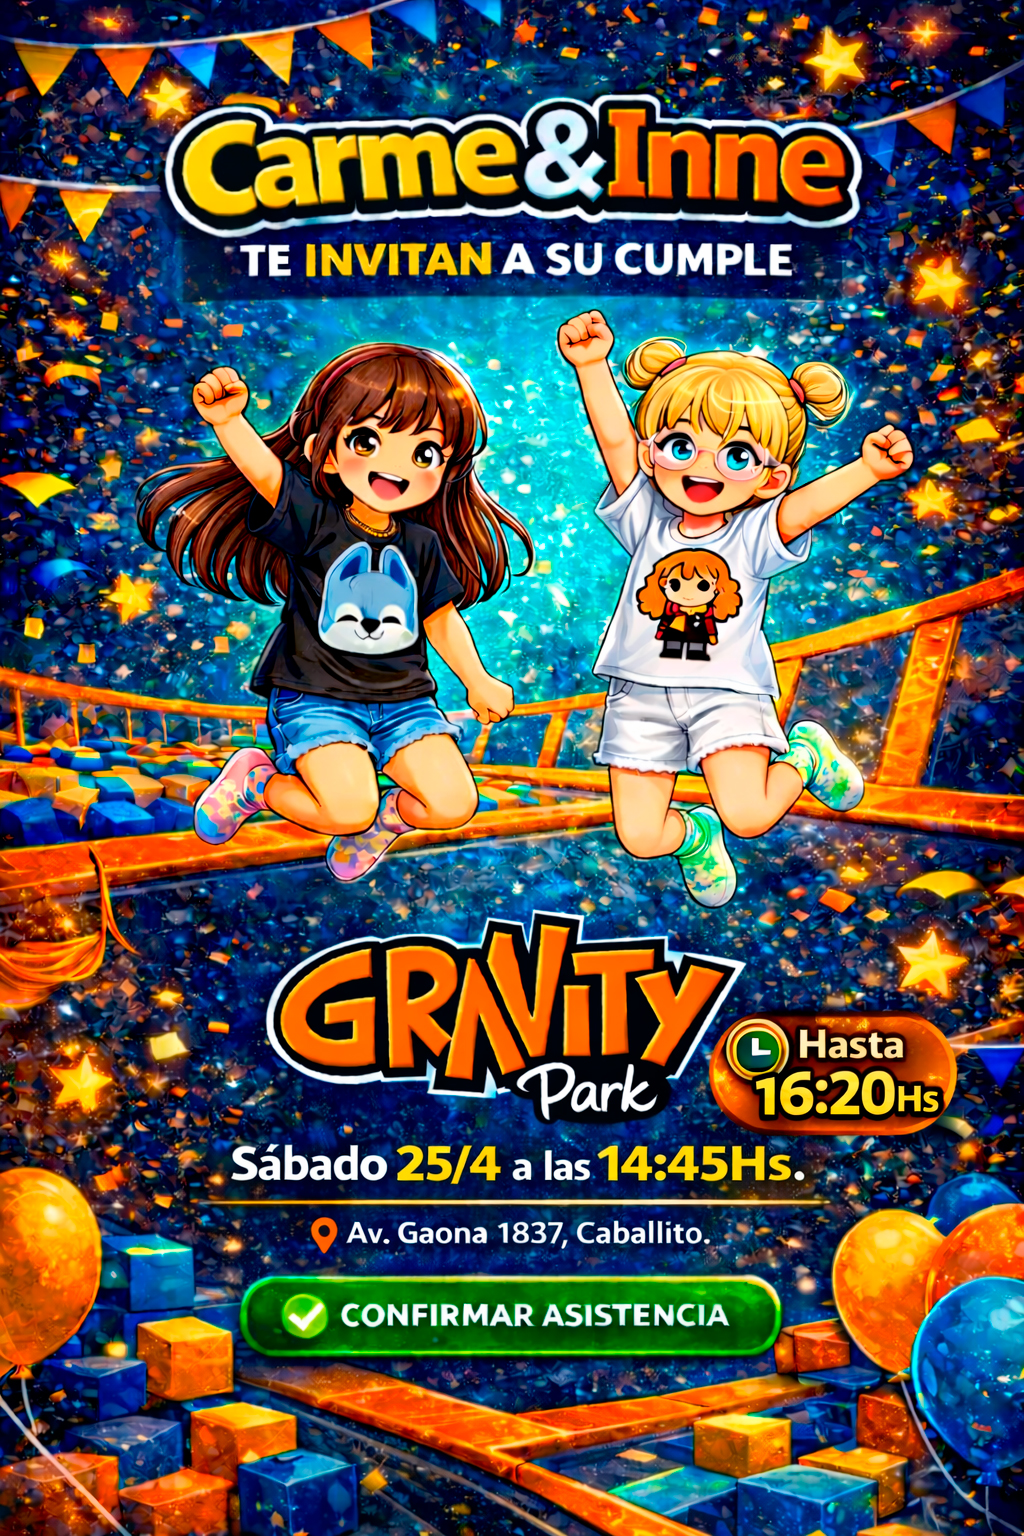
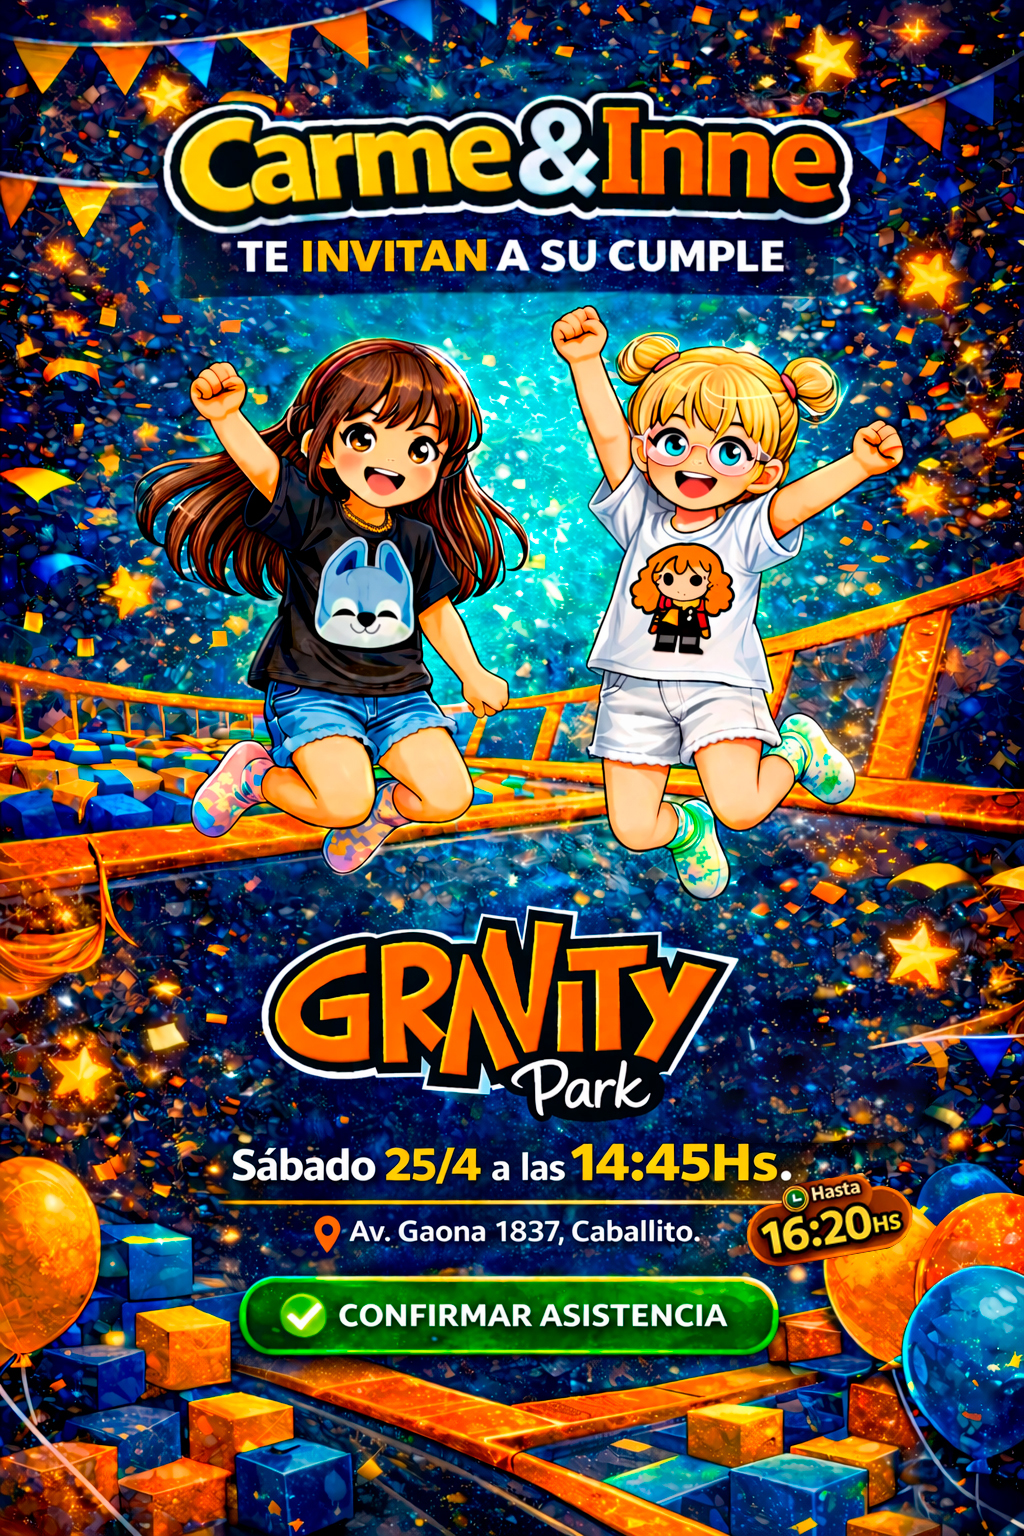
update invitation card to v2 + make it bigger on hero (320→420px)

diff --git a/components/HeroSection.tsx b/components/HeroSection.tsx
@@ -108,13 +108,13 @@ export default function HeroSection({ initialCount }: HeroSectionProps) {
         </p>
 
         {/* ── Tarjeta de invitación ──────────────────────────────────────── */}
-        <div className="relative w-full max-w-[260px] md:max-w-[300px] mx-auto mb-8 animate-float">
+        <div className="relative w-full max-w-[320px] md:max-w-[420px] mx-auto mb-8 animate-float">
           <div className="absolute inset-0 rounded-3xl bg-gp-orange/20 blur-2xl scale-110" />
           <div className="relative rounded-3xl overflow-hidden glow-orange shadow-2xl border border-gp-orange/30">
             <Image
               src={EVENT_CONFIG.invitationImage}
               alt={`Tarjeta de invitación — ${EVENT_CONFIG.name}`}
-              width={300}
+              width={420}
               height={430}
               className="w-full h-auto"
               priority
